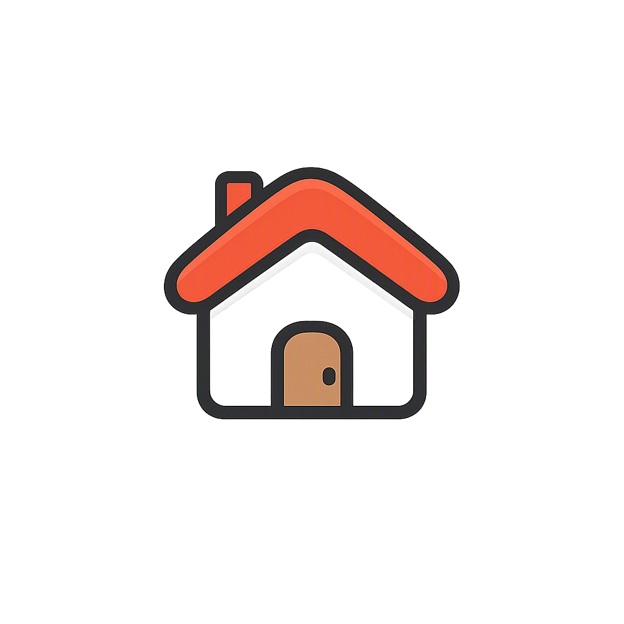
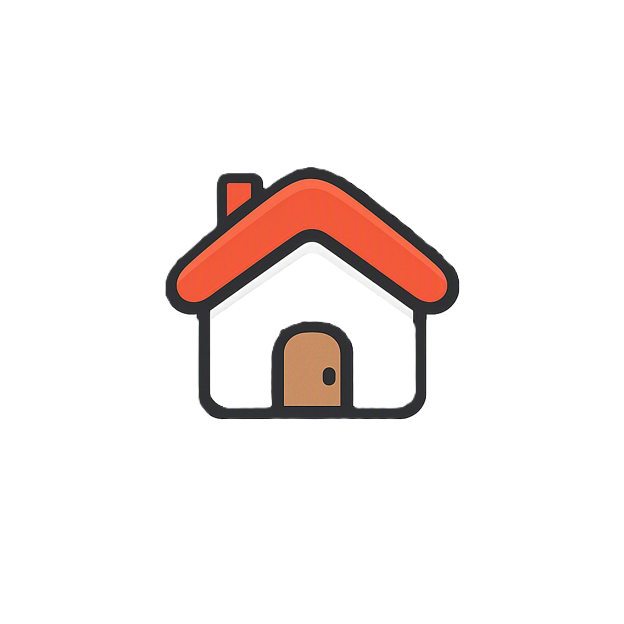
udpated

diff --git a/app/dashboard/provider/p_jobs/page.tsx b/app/dashboard/provider/p_jobs/page.tsx
@@ -3,6 +3,7 @@
 import { useEffect, useState } from "react";
 import { useAuth } from "@/lib/auth-context";
 import { getProviderJobs } from "@/services/provider.service";
+import { getAllJobs } from "@/services/jobs.service";
 import type { JobRequest } from "@/types/job";
 
 const ProviderJobs = () => {
@@ -16,35 +17,51 @@ const ProviderJobs = () => {
     useEffect(() => {
         if (isLoading) return;
 
-        if (!token) {
-            setError("You must be logged in to view jobs.");
-            setLoading(false);
-            return;
-        }
+        // if (!token) {
+        //     setError("You must be logged in to view jobs.");
+        //     setLoading(false);
+        //     return;
+        // }
 
-        const fetchJobs = async () => {
+        // const fetchJobs = async () => {
+        //     try {
+        //         setLoading(true);
+        //         setError(null);
+
+        //         const data = await getProviderJobs(token);
+        //         setJobs(data.jobs || []);
+        //         setCount(data.count ?? data.jobs.length);
+        //     } catch (err) {
+        //         console.error(err);
+
+        //         if (err instanceof Error) {
+        //             setError(err.message);
+        //         } else {
+        //             setError("Failed to load provider jobs.");
+        //         }
+        //     } finally {
+        //         setLoading(false);
+        //     }
+        // };
+
+        const fetchAllJobs = async () => {
             try {
                 setLoading(true);
                 setError(null);
 
-                const data = await getProviderJobs(token);
+                const data = await getAllJobs();
                 setJobs(data.jobs || []);
                 setCount(data.count ?? data.jobs.length);
             } catch (err) {
-                console.error(err);
-
-                if (err instanceof Error) {
-                    setError(err.message);
-                } else {
-                    setError("Failed to load provider jobs.");
-                }
-            } finally {
-                setLoading(false);
+                console.error(err)
             }
-        };
+            finally {
+                setLoading(false)
+            }
+        }
 
-        fetchJobs();
-    }, [isLoading, token]);
+        fetchAllJobs();
+    }, [isLoading]);
 
     const statusColors: Record<string, string> = {
         open: 'bg-green-100 text-green-700',
@@ -104,23 +121,27 @@ const ProviderJobs = () => {
                                 className="bg-white rounded-2xl border border-gray-200 shadow-sm hover:shadow-lg transition-all duration-300 p-6 flex flex-col justify-between"
                             >
                                 <div className="space-y-4">
-                                    <div className="flex items-start justify-between gap-3">
+                                    <div className="flex flex-col justify-between gap-1">
+                                        <p className="flex w-full justify-between">
+                                            <span className="bg-gray-400 rounded-full px-2 text-white">{job.category_name}</span>
+
+                                            <span
+                                                className={`px-3 py-1 rounded-full text-xs font-medium whitespace-nowrap ${
+                                                    statusColors[job.status] || 'bg-gray-100 text-gray-700'
+                                                }`}
+                                            >  
+                                                {job.status}
+                                            </span>
+                                        </p>
+                                        
                                         <h2 className="text-xl font-semibold text-gray-900 leading-tight">
                                             {job.title}
                                         </h2>
-
-                                        <span
-                                            className={`px-3 py-1 rounded-full text-xs font-medium whitespace-nowrap ${
-                                                statusColors[job.status] || 'bg-gray-100 text-gray-700'
-                                            }`}
-                                        >
-                                            {job.status}
-                                        </span>
                                     </div>
 
-                                    <p className="text-sm text-gray-600 line-clamp-3">
+                                    {/* <p className="text-sm text-gray-600 line-clamp-3">
                                         {job.description || "No description provided."}
-                                    </p>
+                                    </p> */}
 
                                     <div className="grid grid-cols-2 gap-3 text-sm">
                                         <div className="bg-gray-100 rounded-xl p-3">
@@ -165,16 +186,16 @@ const ProviderJobs = () => {
                                     </div>
                                 </div>
 
-                                <div className="mt-6 flex items-center justify-between">
-                                    <button className="px-4 py-2 rounded-xl bg-black text-white text-sm font-medium hover:bg-gray-800 transition">
+                                <div className="mt-6 flex items-center justify-end">
+                                    <button className="px-4 py-2 rounded-xl bg-blue-500 text-white text-sm font-medium active:bg-blue-600 transition active:scale-97">
                                         View Details
                                     </button>
 
-                                    {job.status === 'open' && (
+                                    {/* {job.status === 'open' && (
                                         <button className="px-4 py-2 rounded-xl border border-gray-300 text-sm font-medium hover:bg-gray-50 transition">
                                             Send Quote
                                         </button>
-                                    )}
+                                    )} */}
                                 </div>
                             </div>
                         ))}

diff --git a/app/(public)/jobs/page.tsx b/app/(public)/jobs/page.tsx
@@ -1,5 +1,10 @@
+'use client';
 import Image from "next/image";
 import Link from "next/link";
+import { useState, useEffect } from "react";
+import { useAuth } from "@/lib/auth-context";
+import { getAllJobs } from "@/services/jobs.service";
+import { JobRequest } from "@/types/job";
 
 
 const jobs = [
@@ -41,6 +46,37 @@ const categories = [
 
 export default function JobsPage () {
 
+  const { isLoading } = useAuth();
+  
+  const [jobs, setJobs] = useState<JobRequest[]>([]);
+  const [count, setCount] = useState(0);
+  const [loading, setLoading] = useState(true);
+  const [error, setError] = useState<string | null>(null);
+
+
+  useEffect(() => {
+        if (isLoading) return;
+
+        const fetchAllJobs = async () => {
+            try {
+                setLoading(true);
+                setError(null);
+
+                const data = await getAllJobs();
+                setJobs(data.jobs || []);
+                setCount(data.count ?? data.jobs.length);
+            } catch (err) {
+                console.error(err)
+            }
+            finally {
+                setLoading(false)
+            }
+        }
+
+        fetchAllJobs();
+    }, [isLoading]);
+  
+
   return (
     <main className="min-h-screen bg-white text-slate-900">
       {/* <header className="h-20 border-b border-slate-200 px-6 md:px-14 flex items-center justify-between">
@@ -75,7 +111,7 @@ export default function JobsPage () {
 
       <section className="px-8 items-center border-slate-200 ">
         <div className="flex justify-between gap-6 pt-6">
-          <Link href={'#'} className="">
+          <Link href={'/'} className="">
             <div className="items-center flex w-full border border-black hover:shadow-xl">
               <Image
                 src={'/images/home button.png'}
@@ -232,12 +268,12 @@ export default function JobsPage () {
               </nav>
 
             <div className="flex justify-between items-center w-full">
-              <p className="text-[1.2rem] font-medium">128 jobs found</p>
+              <p className="text-[1.2rem] font-medium">{jobs.length} jobs found</p>
               <div className="flex items-center ">
                 <p className="text-[1.2rem] font-medium">Sort by:</p>
                 <select className="border rounded py-1 px-2 ml-2 font-medium">
                   <option>Newest First</option>
-                  <option>Oldest First</option>
+                  <option>Oldest First</option>\
                   <option>Other</option>
               </select>
               </div>
@@ -251,7 +287,7 @@ export default function JobsPage () {
             {jobs.map((job) => (
               <div key={job.title} className="bg-slate-100 border-slate-50 border hover:shadow-[0px_2px_8px_0px_rgba(0,0,0,0.2)] transition duration-500  border-slate-200 rounded-xl overflow-hidden shadow-sm p-4">
                 <span className="text-xs bg-blue-100 text-blue-700 px-2 py-1  rounded-lg ">
-                  {job.category}
+                  {job.category_name}
                 </span>
                 <span></span>
                 <div className="flex border-b border-slate-300">
@@ -267,14 +303,22 @@ export default function JobsPage () {
 
                   <div className="p-4">
                     <h3 className="font-bold mt-3 md:text-lg">{job.title}</h3>
-                    <p className="text-xs text-slate-500 mt-2 mb-8">📍 {job.location}</p>
+                    <p className="text-xs text-slate-500 mt-2 mb-8">📍{job.district}, {job.city}  </p>
                     {/* <p className="text-xs text-slate-500 mt-1"> {job.location}</p> */}
-                    <p className="text-green-600 font-bold mt-3 text-[1.4rem]">${job.price} </p>
-                    {/* <p className="text-xs text-slate-400 mt-3">📅 {job.preferred_date ? new Date(job.preferred_date).toLocaleDateString('en-CA', {
-                        year: 'numeric',
-                        month: 'long',
-                        day: 'numeric'
-                    }) : 'Flexible'}</p> */}
+                    <p className="text-green-600 font-bold mt-3 text-[1.4rem]">
+                      {job.budget_min != null && job.budget_max != null
+                        ? `${new Intl.NumberFormat('en-US', {
+                          style: 'currency',
+                          currency: 'USD',
+                          maximumFractionDigits: 0,
+                        }).format(job.budget_min)} - ${new Intl.NumberFormat('en-US', {
+                          style: 'currency',
+                          currency: 'USD',
+                          maximumFractionDigits: 0,
+                        }).format(job.budget_max)}` 
+                        : 'Budget not specified'}
+                    </p>
+                    
                     <p className="text-xs text-slate-400 mt-3"></p>
                   </div>
 
@@ -282,7 +326,15 @@ export default function JobsPage () {
 
                 </div>
                 <div className="flex justify-between mt-2 items-center">
-                  <span>⌚{job.time ?? 'Any time'}</span>
+                  <span>
+                    ⌚{job.preferred_date 
+                      ? new Date(job.created_at).toLocaleDateString('en-US', {
+                        month: 'short',
+                        day: 'numeric',
+                        year: 'numeric',
+                        timeZone: 'UTC',})
+                      : 'Any time'}
+                  </span>
                   <span>5 Quotes</span>
                   <button className="borde border-blue-300 bg-slate-300 py-1 px-2 rounded-md hover:bg-blue-400 transition duration-600 hover:text-white active:scale-98">
                     View Details

diff --git a/app/dashboard/customer/c_quotes/page.tsx b/app/dashboard/customer/c_quotes/page.tsx
@@ -1,5 +1,65 @@
+'use client';
+import { useState, useEffect } from 'react';
+import { useAuth } from '@/lib/auth-context';
+import { getProviderQuotes } from '@/services/quotes.service';
+import { Quote } from '@/types/quote';
 
 export default function AllJobQuotes() {
+     const { token, isLoading } = useAuth();
+    
+        const [quotes, setQuotes] = useState<Quote[]>([]);
+        const [count, setCount] = useState(0);
+        const [loading, setLoading] = useState(true);
+        const [error, setError] = useState<string | null>(null);
+    
+        useEffect(() => {
+            if (isLoading) return;
+    
+            if (!token) {
+                setError("You must be logged in to view jobs.");
+                setLoading(false);
+                return;
+            }
+    
+            // const fetchJobs = async () => {
+            //     try {
+            //         setLoading(true);
+            //         setError(null);
+    
+            //         const data = await getProviderJobs(token);
+            //         setJobs(data.jobs || []);
+            //         setCount(data.count ?? data.jobs.length);
+            //     } catch (err) {
+            //         console.error(err);
+    
+            //         if (err instanceof Error) {
+            //             setError(err.message);
+            //         } else {
+            //             setError("Failed to load provider jobs.");
+            //         }
+            //     } finally {
+            //         setLoading(false);
+            //     }
+            // };
+    
+            const fetchAllQuotes = async () => {
+                try {
+                    setLoading(true);
+                    setError(null);
+    
+                    const data = await getProviderQuotes(token);
+                    setQuotes(data.quotes || []);
+                    setCount(data.count ?? data.quotes.length);
+                } catch (err) {
+                    console.error(err)
+                }
+                finally {
+                    setLoading(false)
+                }
+            }
+    
+            fetchAllQuotes();
+        }, [isLoading]);
     return (
         <main className="text-black">
             <h1>All jobs with quotes</h1>

diff --git a/app/dashboard/customer/c_quotes/[jobId]/page.tsx b/app/dashboard/customer/c_quotes/[jobId]/page.tsx
@@ -38,7 +38,12 @@ export default function CustomerQuote() {
 
         try {
             await acceptQuote(quoteId, token!)
-            router.push('/dashboard/customer/booking')
+            setQuotes(current => current.map(quote => 
+                quote.id === quoteId 
+                ? { ...quote, status: 'pending' }
+                : quote
+            ))
+            // router.push('/dashboard/customer/booking')
         } catch (err) {
             if (err instanceof Error) setError(err.message)
         } finally {
@@ -154,11 +159,18 @@ export default function CustomerQuote() {
                                         View Details
                                     </button>
 
-                                    <button 
+                                    {quote.status === 'pending' || accepting === quote.id ? (
+                                        <button
+                                            disabled
+                                            className="px-5 py-3 rounded-2xl bg-slate-200 text-slate-600 font-medium">
+                                            Pending
+                                        </button>
+                                        ) : (
+                                        <button 
                                         onClick={() => handleAccept(quote.id)}
                                         className="px-5 py-3 rounded-2xl bg-blue-600 text-white font-medium hover:bg-blue-700 transition shadow-sm active:scale-98">
                                         Accept Quote
-                                    </button>
+                                    </button>)}
                                 </div>
                            
                             </div> 

diff --git a/app/(public)/home/page.tsx b/app/(public)/home/page.tsx
@@ -180,12 +180,16 @@ export default function HomePage() {
                     <h3 className="font-bold mt-3 text-sm">{job.title}</h3>
                     <p className="text-xs text-slate-500 mt-1">📍 {job.city}</p>
                     <p className="text-green-600 font-bold mt-3 text-[1.4rem]">${job.budget_min} - {job.budget_max}</p>
-                    <p className="text-xs text-slate-400 mt-3">📅 {job.preferred_date ? new Date(job.preferred_date).toLocaleDateString('en-CA', {
+                    <p className="text-xs text-slate-400 mt-3">📅 {job.created_at ? new Date(job.created_at).toLocaleDateString('en-CA', {
                         year: 'numeric',
                         month: 'long',
                         day: 'numeric'
                     }) : 'Flexible'}</p>
-                    <p className="text-xs text-slate-400 mt-3">⌚ {job.preferred_time ?? 'Any time'}</p>
+                    <p className="text-xs text-slate-400 mt-3">⌚ {job.preferred_date ? new Date(job.preferred_date).toLocaleDateString('en-US', {
+                      month: 'short',
+                      day: 'numeric',
+                      year: 'numeric',
+                    }) : 'Any time'}</p>
                 </div>
             </div>
           ))}
